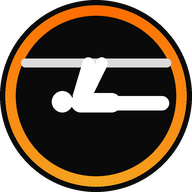
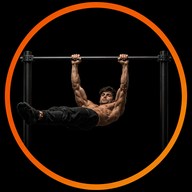
Add files via upload

diff --git a/index.html b/index.html
@@ -65,8 +65,8 @@ header{position:sticky;top:0;z-index:30;padding:10px 14px;padding-top:calc(10px 
   background:rgba(10,10,10,.90);backdrop-filter:blur(16px);border-bottom:1px solid var(--line-soft);}
 .headerRow{display:flex;align-items:center;justify-content:space-between;gap:10px;}
 .brand{display:flex;align-items:center;gap:10px;min-width:0;}
-.brandMark{width:34px;height:34px;flex:none;display:block;filter:drop-shadow(0 3px 12px rgba(255,107,0,.45));}
-.brandMark svg{width:34px;height:34px;display:block;}
+.brandMark{width:36px;height:36px;flex:none;display:block;border-radius:50%;filter:drop-shadow(0 3px 12px rgba(255,107,0,.4));}
+
 h1{margin:0;font-size:16px;font-weight:900;font-style:italic;letter-spacing:.02em;text-transform:uppercase;
   white-space:nowrap;overflow:hidden;text-overflow:ellipsis;}
 #saveState{font-size:11px;padding:5px 11px;border-radius:20px;white-space:nowrap;cursor:pointer;
@@ -243,21 +243,7 @@ details.card summary::-webkit-details-marker{display:none;}
 <header>
   <div class="headerRow">
     <div class="brand">
-      <div class="brandMark"><svg viewBox="0 0 100 100" xmlns="http://www.w3.org/2000/svg" aria-hidden="true">
-  <defs><linearGradient id="lgR" x1="12" y1="6" x2="88" y2="94" gradientUnits="userSpaceOnUse">
-    <stop stop-color="#FF6B00"/><stop offset="1" stop-color="#F5A623"/></linearGradient></defs>
-  <circle cx="50" cy="50" r="45" fill="#0A0A0A"/>
-  <circle cx="50" cy="50" r="45" fill="none" stroke="url(#lgR)" stroke-width="5.5"/>
-  <rect x="11" y="30.5" width="78" height="4.5" rx="2.2" fill="#DCDCDC"/>
-  <g stroke="#FFFFFF" stroke-width="6.2" stroke-linecap="round">
-    <path d="M46 33 L41 50"/><path d="M53 33 L44 51.5"/>
-  </g>
-  <g fill="#FFFFFF">
-    <circle cx="32.5" cy="53" r="5.5"/>
-    <rect x="37" y="48.4" width="26" height="10" rx="5"/>
-    <rect x="58" y="50" width="30" height="7.4" rx="3.7"/>
-  </g>
-</svg></div>
+      <img class="brandMark" src="icons/logo.png" alt="" width="34" height="34">
       <h1>Calisthénie</h1>
     </div>
     <span id="saveState" onclick="switchTab('sync')">…</span>

diff --git a/sw.js b/sw.js
@@ -3,7 +3,7 @@
    navigations en network-first avec repli sur le cache.
    Les appels à l'API GitHub ne passent JAMAIS par le cache. */
 
-const VERSION = 'pc-v10';
+const VERSION = 'pc-v11';
 const SHELL = [
   './',
   './index.html',
@@ -12,7 +12,8 @@ const SHELL = [
   './icons/icon-512.png',
   './icons/icon-maskable-512.png',
   './icons/apple-touch-icon.png',
-  './icons/favicon-32.png'
+  './icons/favicon-32.png',
+  './icons/logo.png'
 ];
 
 self.addEventListener('install', event => {
